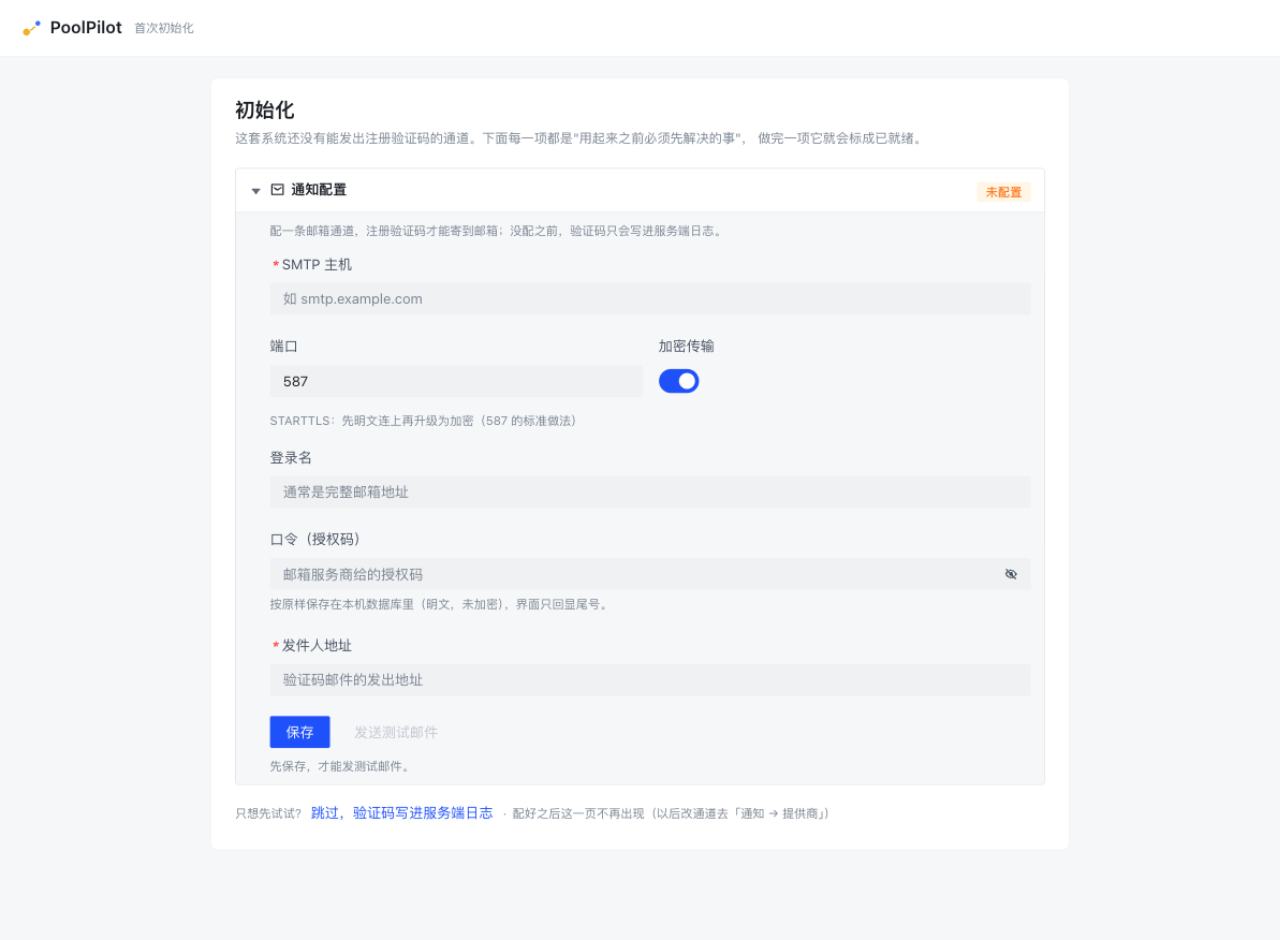
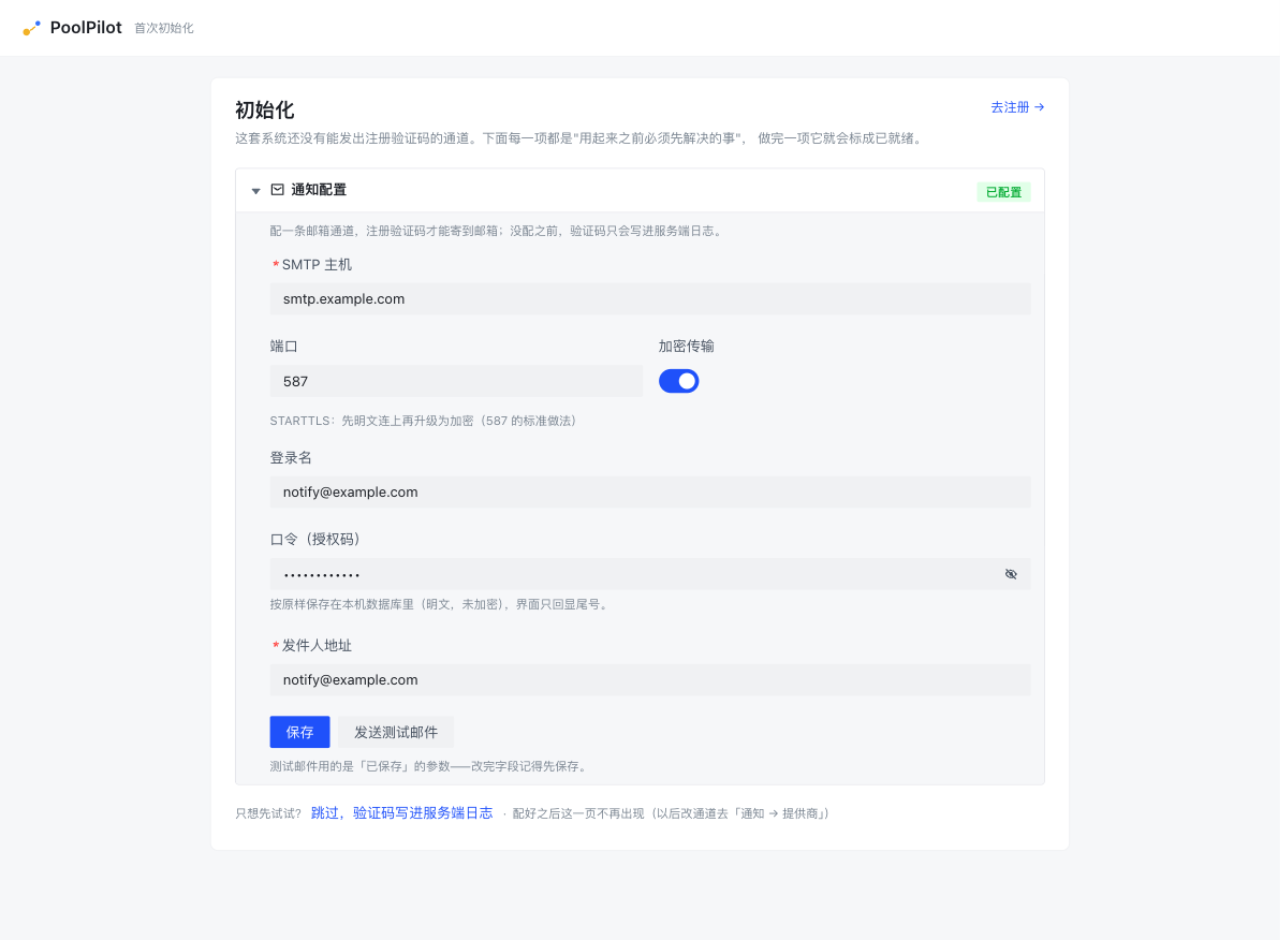
初始化页：「去注册」换成主色箭头链接
原来是实心主按钮，和折叠区里的「保存」同屏抢主次——这一页的主任务是那些初始化项，
"去注册"是做完之后的下一步，不该长成第二个主按钮。

改成仓库里"去另一页"的既有写法（与「看全部池 →」「创建 / 管理 →」同款：主色 + 箭头），
并且用 `RouterLink` 而不是 `a-button` + `router.push`：它渲染出真实的 `<a href="/register">`，
可键盘聚焦、可用新标签页打开——这条约定在 PoolList 的注释里写着（Arco 的 a-link 不生成 href）。

实测：未配置时不出现；配置后是 54×15 的链接，同屏只剩「保存」一个实心按钮。

diff --git a/web/src/views/SetupView.vue b/web/src/views/SetupView.vue
@@ -98,10 +98,6 @@ async function sendTest(): Promise<void> {
   }
 }
 
-async function goToRegister(): Promise<void> {
-  await router.push({ name: 'register' })
-}
-
 async function skipSetup(): Promise<void> {
   skip()
   await router.push({ name: 'register' })
@@ -136,7 +132,13 @@ async function skipSetup(): Promise<void> {
             </p>
           </div>
 
-          <a-button v-if="notifyConfigured" type="primary" @click="goToRegister">去注册</a-button>
+          <!-- 与仓库里其它"去另一页"同一写法：主色 + 箭头，用 RouterLink（真实 `<a href>`，
+               可键盘聚焦、可用新标签页打开——Arco 的 a-link 不生成 href）。
+               它不再是实心按钮：这一页的主任务是上面那些初始化项，而"去注册"是做完之后的下一步；
+               两个实心按钮同屏，人得先分辨该按哪个 -->
+          <RouterLink v-if="notifyConfigured" class="next-step" :to="{ name: 'register' }">
+            去注册 →
+          </RouterLink>
         </div>
 
         <!-- ── 初始化项按"可折叠区"划分，一项一个区 ──────────────────
@@ -283,6 +285,20 @@ async function skipSetup(): Promise<void> {
   align-items: flex-start;
   justify-content: space-between;
   gap: 16px;
+}
+
+/* 下一步的链接：顶对齐标题那一行，与"这一页的结论"同层 */
+.next-step {
+  flex: 0 0 auto;
+  margin-top: 2px;
+  font-size: 13px;
+  color: rgb(var(--primary-6));
+  text-decoration: none;
+  white-space: nowrap;
+}
+
+.next-step:hover {
+  text-decoration: underline;
 }
 
 .setup-title {
